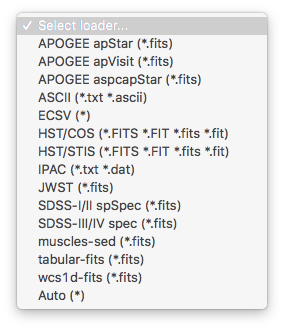
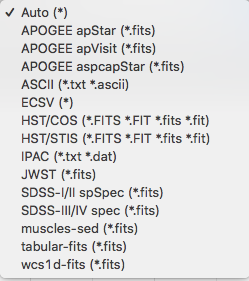
fixing up docs for loading files in specviz

Changed region(s): [[0.0, 0.0285, 1.0, 1.0], [0.9839, 0.0, 1.0, 0.0285], [0.0, 0.0, 0.0281, 0.0285]]

diff --git a/docs/loading_data.rst b/docs/loading_data.rst
@@ -1,0 +1,104 @@
+.. _doc_loading_data:
+
+Loading Data
+============
+
+SpecViz provides various ways to load spectral data, including a GUI and command line
+interface. It supports many ASCII and FITS Binary Table file types. FITS Image
+files are not currently supported, but there are plans to add this capability
+in the future.
+
+
+Supported File Types
+--------------------
+Although a variety of file types can be used through :ref:`custom`,
+SpecViz leverages several built in loaders provided by SpecUtils. The
+table below defines the built in loaders and what file characteristics they
+expect.
+
+=====================  =======================  =================================================
+Loader Name            Extension                Additional Specification
+=====================  =======================  =================================================
+APOGEE apStar          ``.fits``                filename starts with ``apStar``
+APOGEE apVisit         ``.fits``                filename starts with ``apVisit``
+APOGEE aspcapStar      ``.fits``                filename starts with ``aspcapStar``
+ASCII                  ``.txt`` or ``.ascii``
+ECSV                   ``.ecsv``
+HST/COS                ``.fits``                header values ``TELESCOP`` = ``HST`` and  ``INSTRUME`` = ``COS``
+HST/STIS               ``.fits``                header values ``TELESCOP`` = ``HST`` and  ``INSTRUME`` = ``STIS``
+IPAC                   ``.txt`` or ``.dat``
+JWST                   ``.fits``                hdulist includes an ``ASDF`` extensions, at least one HDU named ``EXTRACT1D``
+SDSS-I/II spSpec       ``.fits``                filename matches spSpec-NNNNN-NNNN-NNN.fits, where N is an integer
+SDSS-III/IV spec       ``.fits``                filename matches spSpec-NNNN(N)-NNNNN-NNNN.fits, where N is an integer
+muscles-sed            ``.fits``                filename ends with ``sed.fits``, hdulist has BinTable in the first extension, header keyword ``PROPOSID`` = 13650
+tabular-fits           ``.fits``                hdulist has BinTable in first extension.
+wcs1d-fits             ``.fits``                header keyword ``NAXIS`` = ``1``, ``CTYPE1`` in primary header
+=====================  =======================  =================================================
+
+Loading Basic Spectra
+---------------------
+To see instructions on loading data through the command line, see the
+:ref:`specviz-launching` section.
+
+To load spectra once inside the SpecViz API you can click on the
+``Load Data`` button in the workspace toolbar. This will open a file dialog
+window.  At the bottom of this window is a drop down list of built in loaders.
+If ``Auto*`` is chosen, SpecViz will attempt to open the file with the loaders
+whose identifier specification match the file.
+
+.. image:: _static/open_file_dialog.png
+
+.. image:: _static/loader_select.png
+
+Once the file has been loaded, the spectrum plot should appear.
+
+Loader Wizard
+-------------
+
+The Loader Wizard assists with loading spectra into SpecViz. For a given
+spectrum it creates a custom loader file which can then be used to load the
+spectrum (and spectra in the same format) without having to use the wizard,
+accessed from the ``Load Data`` file dialog window.
+
+The Loader Wizard is invoked by clicking on the ``Loader Wizard`` button in
+the workspace toolbar. The below dialog box will display:
+
+.. image:: _static/loader_wizard.png
+
+The Loader Wizard uses `astropy.table.Table.read` to open the data file. Desired
+input parameters for `astropy.table.Table.read` can be entered in the top text
+box of the Loader Wizard. The syntax of this field should match the syntax
+following the filename parameter in an `astropy.table.Table.read` call. For
+example, the grayed out text in the above figure shows an additional parameter
+of ``format="ascii"``.  For multiple additional parameters you should include
+commas, i.e. ``format = "ascii", comment = "*"``. See the `astropy.table.Table`
+documentation for the available options. Once this field is filled out, you can
+press the Refresh Data button and the wizard will reload the table from the
+provided file. If the `~astropy.table.Table.read` command was
+successful, the drop downs in the Dispersion, Data and Uncertainty sections of
+the wizard will be populated.
+
+The bottom left field for the Loader Name determines the label assigned to the
+saved loader. When the ``Save to .py`` button is clicked, it will open a new
+dialog for saving the loader file on your machine.  The loader label name and
+the filename can be different.
+
+You will not be able to save your new loader without valid units defined for
+the data section and the dispersion section. You can see a preview of the
+generated loader wizard by clicking on the ``Preview .py`` button.
+
+The Loader Wizard is able to handle table data (including FITS binary tables),
+but cannot currently handle FITS image data. Additionally, although not currently
+implemented, we plan on supporting bit masks in a future release.
+
+.. _custom:
+
+Custom Loader Creation
+----------------------
+
+For data/file types with no built in loader and not supported in the File Loader
+Wizard, a custom loader may be necessary. Instructions
+on how to build a Custom Loader can be found in
+`the Specutils documentation <https://specutils.readthedocs.io/en/latest/custom_loading.html>`_.
+If the finished Python loader file is saved to ``~/.specutils/`` it will be
+accesible through the Specviz interface.

diff --git a/docs/getting_started.rst b/docs/getting_started.rst
@@ -10,19 +10,6 @@ Lets start by loading a test spectrum. If you followed the steps in
 :ref:`specviz-launching`, you should see the specviz window up, but without a
 spectrum.
 
-There are two options to load a spectrum:
-
-1. Load the spectrum with a pre-defined data loader, or a custom user-defined data loader.
-2. Utilize the :doc:`Loader Wizard </loader_wizard>` to create a new custom loader, and use that to load your data.
-
-Either way, the specific loader for your data can be selected from the drop
-down list in the open file dialog
-
-.. image:: _static/open_file_dialog.png
-
-.. image:: _static/loader_select.png
-
-Once the file has been loaded, the spectrum should plot.
 
 
 Exporting Spectra
@@ -38,4 +25,3 @@ save the exported spectrum.
     `ECSV <http://docs.astropy.org/en/stable/api/astropy.io.ascii.Ecsv.html>`_
     is currently the only supported export format. This will change in the
     future as more exporting formats are supported in the specutils package.
-

diff --git a/docs/index.rst b/docs/index.rst
@@ -49,7 +49,7 @@ Using SpecViz
    :maxdepth: 2
 
    getting_started
-   loader_wizard
+   loading_data
    workspaces_and_plots
    regions
    unit_conversion
